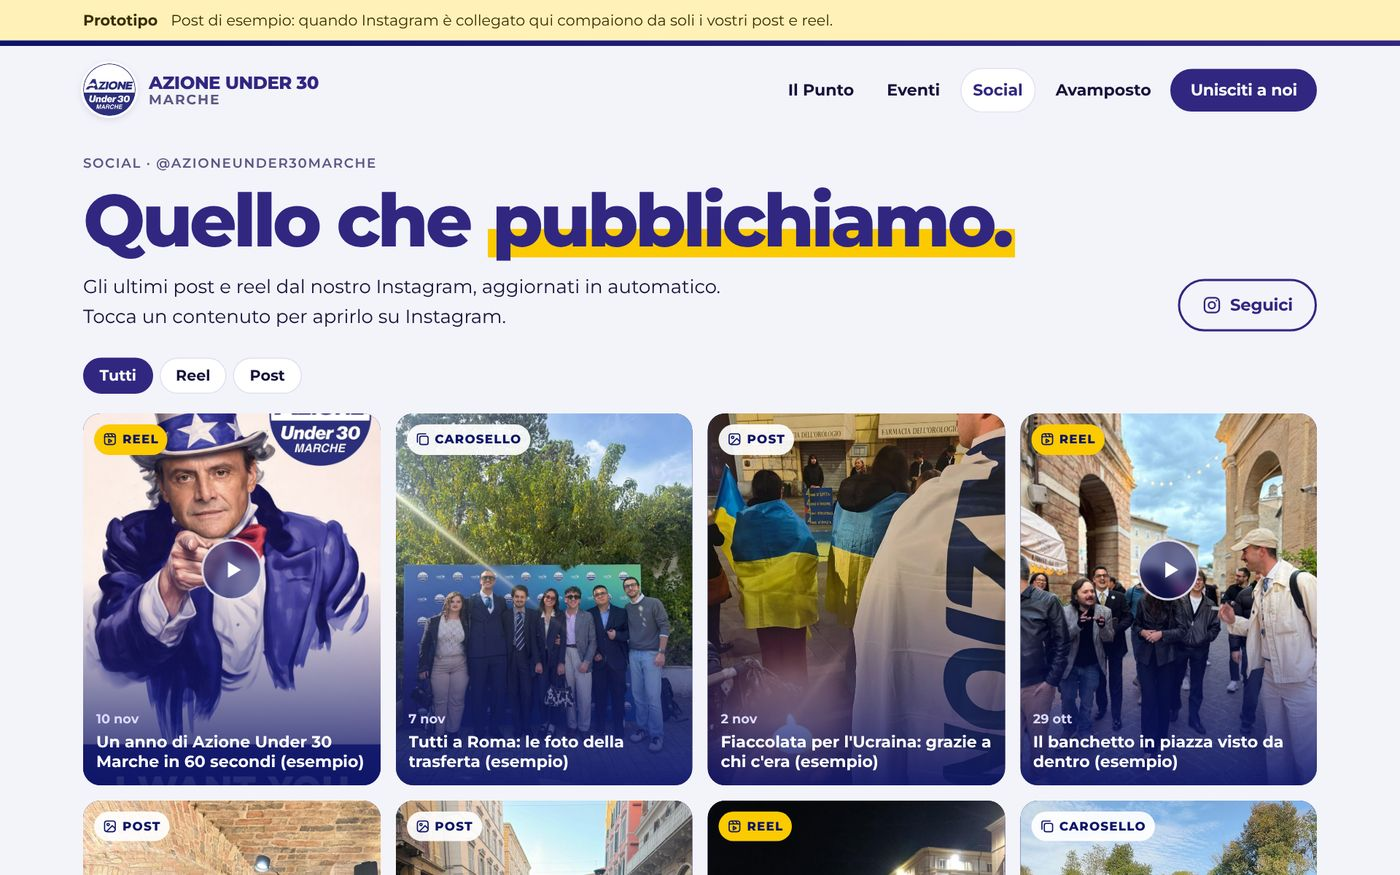
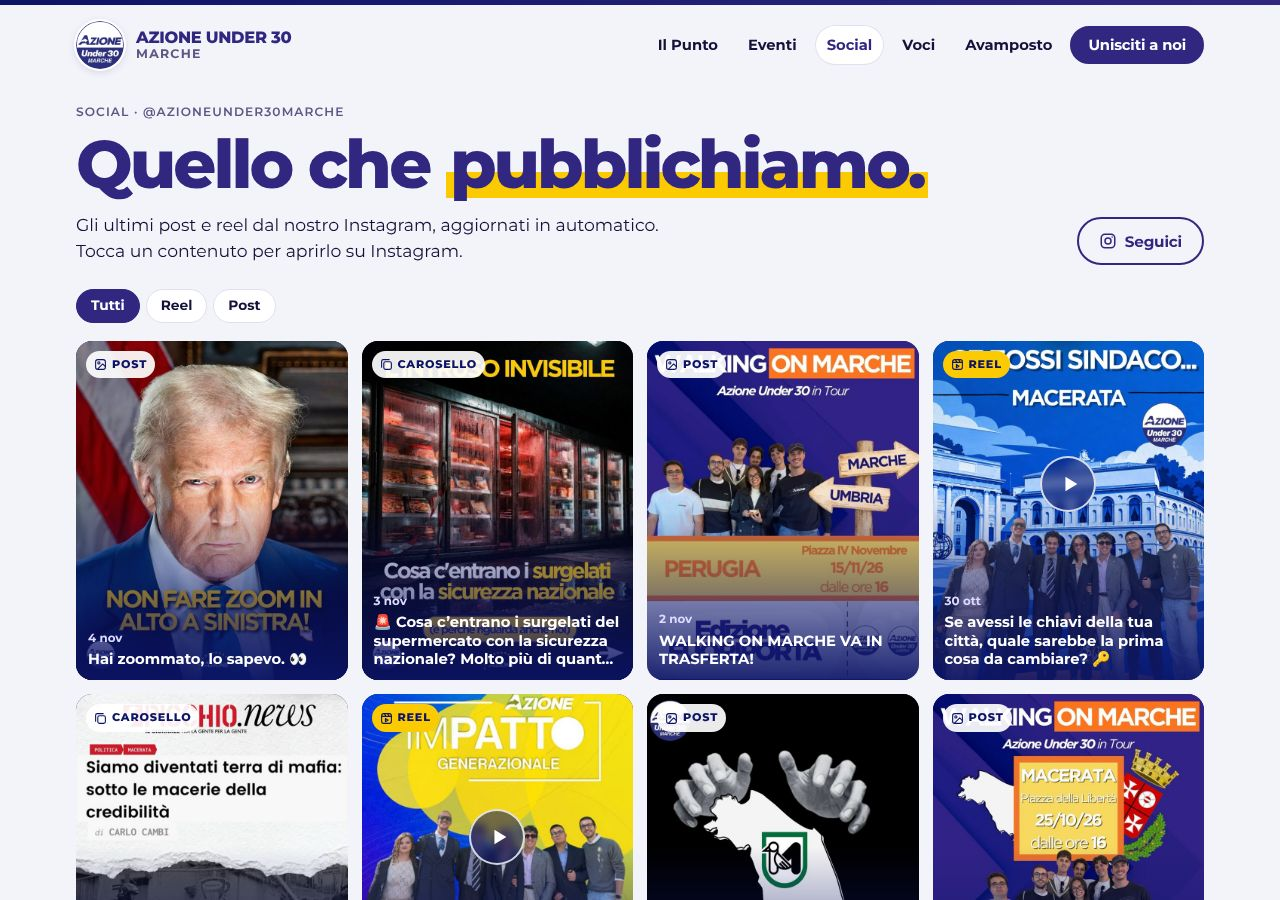
Presentazione aggiornata: stato dei lavori, Instagram collegato, area riservata attiva
Claude-Session: https://claude.ai/code/session_01NRyspFum324wAsFqW1YsHa

diff --git a/presentazione/index.html b/presentazione/index.html
@@ -120,6 +120,12 @@ footer a { color: var(--muted); }
 .tryit-actions { display: grid; gap: 10px; justify-items: start; }
 .tryit-actions small { color: var(--muted); }
 @media (max-width: 820px) { .tryit { grid-template-columns: 1fr; padding: 22px 18px; } }
+
+.steps li.done::before { content: "✓"; background: #312781; }
+.steps li.done b::after { content: " · fatto"; font-weight: 700; font-size: .78rem; letter-spacing: .06em; text-transform: uppercase; color: var(--muted); }
+.steps li.doing { border: 2px solid var(--yellow); }
+.steps li.doing::before { background: var(--yellow); color: #0C1467; }
+.steps li.doing b::after { content: " · in corso"; font-weight: 700; font-size: .78rem; letter-spacing: .06em; text-transform: uppercase; color: var(--muted); }
 </style>
 </head>
 <body>
@@ -167,12 +173,12 @@ footer a { color: var(--muted); }
     </section>
 
     <nav class="toc" aria-label="Indice">
-      <a href="#home">Home</a><a href="#voci">Voci Under 30</a><a href="#punto">Il Punto</a><a href="#eventi">Eventi</a><a href="#social">Social</a><a href="#avamposto">Avamposto</a><a href="#gestione">Gestione</a><a href="#privacy">Privacy</a><a href="#prossimi">Prossimi passi</a>
+      <a href="#home">Home</a><a href="#voci">Voci Under 30</a><a href="#punto">Il Punto</a><a href="#eventi">Eventi</a><a href="#social">Social</a><a href="#avamposto">Avamposto</a><a href="#gestione">Gestione</a><a href="#privacy">Privacy</a><a href="#prossimi">A che punto siamo</a>
     </nav>
 
     <section class="part" id="home">
       <div>
-        <span class="status on">Online</span>
+        <span class="status prev">Pronta · si apre al lancio</span>
         <h2>La porta d'ingresso</h2>
         <p>Chi arriva capisce subito chi siamo e dove andare: leggere la rassegna, entrare nell'Avamposto, venire a un evento.</p>
         <ul>
@@ -188,7 +194,7 @@ footer a { color: var(--muted); }
 
     <section class="part" id="voci">
       <div>
-        <span class="status prev">Pronta · in anteprima</span>
+        <span class="status on">Attiva · in prova</span>
         <h2>Voci Under 30</h2>
         <p>Lo spazio dove i ragazzi dicono la loro: riflessioni, commenti alle notizie, note dopo un banchetto. Si scrive dall'area riservata, lo staff approva, poi il testo compare sul sito.</p>
         <ul>
@@ -221,7 +227,7 @@ footer a { color: var(--muted); }
 
     <section class="part" id="eventi">
       <div>
-        <span class="status prev">Pronta · in anteprima</span>
+        <span class="status on">Attiva · si apre al lancio</span>
         <h2>Eventi</h2>
         <p>Tutti gli appuntamenti nelle Marche con le locandine: aperitivi, incontri, banchetti, dirette, formazione.</p>
         <ul>
@@ -237,23 +243,23 @@ footer a { color: var(--muted); }
 
     <section class="part" id="social">
       <div>
-        <span class="status prev">Pronta · da collegare a Instagram</span>
+        <span class="status on">Collegata a Instagram</span>
         <h2>Social</h2>
-        <p>Ogni reel e ogni post che pubblichiamo su Instagram compare da solo sul sito, nella pagina Social e in anteprima in home. Nessun lavoro in più per chi gestisce i social.</p>
+        <p>Ogni reel e ogni post che pubblichiamo su Instagram compare da solo sul sito, nella pagina Social e in anteprima in home. Il collegamento è già attivo: sul sito ci sono i nostri ultimi contenuti. Nessun lavoro in più per chi gestisce i social.</p>
         <ul>
           <li><span>Aggiornamento automatico ogni due ore</span></li>
           <li><span>Filtri per Reel e Post; tocchi e si apre su Instagram</span></li>
           <li><span>Le immagini sono copiate sul sito: chi guarda non viene tracciato da Instagram</span></li>
         </ul>
-        <div class="actions"><a class="btn solid" href="../social/?demo=1">Vedi l'anteprima</a></div>
+        <div class="actions"><a class="btn solid" href="../social/?demo=1">Vedi i nostri post sul sito</a></div>
       </div>
-      <div class="shots"><a class="shot" href="img/social.jpg"><img src="img/social.jpg" alt="La pagina Social" loading="lazy" width="1400" height="875"></a>
+      <div class="shots"><a class="shot" href="img/social.jpg"><img src="img/social.jpg" alt="La pagina Social con i nostri post" loading="lazy" width="1280" height="900"></a>
         <a class="phone" href="img/social-m.jpg"><img src="img/social-m.jpg" alt="La pagina Social su telefono" loading="lazy" width="560" height="1120"></a></div>
     </section>
 
     <section class="part" id="avamposto">
       <div>
-        <span class="status prev">Pronta · in anteprima</span>
+        <span class="status on">Attiva · in prova con un gruppo ristretto</span>
         <h2>Avamposto, l'area riservata</h2>
         <p>Qui si impara a fare politica. Iscrizione gratuita con la mail, senza password: ricevi un link e sei dentro.</p>
         <ul>
@@ -271,7 +277,7 @@ footer a { color: var(--muted); }
 
     <section class="part" id="gestione">
       <div>
-        <span class="status prev">Pronta · per lo staff</span>
+        <span class="status on">Attiva · per lo staff</span>
         <h2>Gestione, senza toccare codice</h2>
         <p>Lo staff regionale gestisce tutto da un pannello, con un'unica mail condivisa.</p>
         <ul>
@@ -279,6 +285,7 @@ footer a { color: var(--muted); }
           <li><span>Pubblica eventi con locandina, turni e kit per i volontari; vede chi ha aderito e copia l'elenco per WhatsApp</span></li>
           <li><span>Aggiorna la squadra, le foto e i link dei canali</span></li>
           <li><span>Elenco iscritti esportabile</span></li>
+          <li><span>Pre-lancio: decide chi può entrare finché il sito non è aperto a tutti, e lo apre con un clic</span></li>
         </ul>
         <div class="actions"><a class="btn solid" href="../avamposto/?demo=1">Entra come staff (anteprima)</a></div>
       </div>
@@ -294,10 +301,10 @@ footer a { color: var(--muted); }
       <div class="cards">
         <div class="card"><b>Titolare: Azione</b><p>Informativa allineata a quelle del partito (sostenitori, formazione, eventi, volontari, newsletter), con il DPO di Azione indicato.</p></div>
         <div class="card"><b>Dati in Europa</b><p>Iscritti, corsi, adesioni ed eventi sono su server a Francoforte. Nessun cookie di profilazione, nessuna statistica, nessuna pubblicità.</p></div>
-        <div class="card"><b>Protezione sul server</b><p>Le regole del database impediscono di vedere materiali non autorizzati, approvarsi da soli o diventare amministratori.</p></div>
+        <div class="card"><b>Protezione sul server</b><p>Le regole del database impediscono di vedere materiali non autorizzati, approvarsi da soli o diventare amministratori. Verifica in due passaggi sugli account dello staff.</p></div>
         <div class="card"><b>I dati restano delle persone</b><p>Ognuno scarica o cancella i propri dati da solo. Account inattivi cancellati dopo 24 mesi, adesioni ai turni dopo 12.</p></div>
         <div class="card"><b>Nomi riservati</b><p>L'organigramma con i nomi e i canali WhatsApp è visibile solo agli iscritti, non sul sito pubblico.</p></div>
-        <div class="card"><b>Costi</b><p>Hosting, database e invio mail su piani gratuiti. Nessun costo fisso.</p></div>
+        <div class="card"><b>Costi</b><p>Sito, database e mail di accesso su piani gratuiti o con gli strumenti che abbiamo già. Nessun costo fisso.</p></div>
       </div>
       <div class="actions" style="margin-top:24px"><a class="btn white" href="../avamposto/privacy.html">Leggi l'informativa</a></div>
     </div>
@@ -305,20 +312,24 @@ footer a { color: var(--muted); }
 
   <section class="next" id="prossimi">
     <div class="wrap">
-      <span class="eyebrow">Prossimi passi</span>
-      <h2>Cosa manca per partire</h2>
+      <span class="eyebrow">Stato dei lavori · aggiornato all'11 novembre 2026</span>
+      <h2>A che punto siamo</h2>
       <ol class="steps">
-        <li><div><b>Accendere l'area riservata</b><span>Collegamento del database (Supabase, server in Europa): attiva iscrizioni, corsi, eventi, squadra e mobilitazione.</span></div></li>
-        <li><div><b>Mail di accesso</b><span>Servizio di invio gratuito per i link d'accesso e, più avanti, per la newsletter.</span></div></li>
-        <li><div><b>Collegare Instagram</b><span>Da quel momento post e reel arrivano sul sito da soli.</span></div></li>
-        <li><div><b>Prova con un gruppo di ragazzi</b><span>Iscrizione, richiesta di un corso, adesione a un turno, poi apertura a tutti.</span></div></li>
+        <li class="done"><div><b>Il Punto online</b><span>La rassegna esce ogni mattina alle 8, anche in audio, e circola già tra i ragazzi.</span></div></li>
+        <li class="done"><div><b>Area riservata accesa</b><span>Database collegato su server a Francoforte, con le regole di sicurezza e l'organigramma riservato.</span></div></li>
+        <li class="done"><div><b>Mail di accesso</b><span>Il link per entrare parte dalla casella del gruppo, con testi in italiano.</span></div></li>
+        <li class="done"><div><b>Instagram collegato</b><span>Post e reel arrivano sul sito da soli ogni due ore.</span></div></li>
+        <li class="done"><div><b>Sicurezza e privacy</b><span>Informativa allineata ad Azione, verifica in due passaggi, pre-lancio attivo: per ora entra solo chi autorizziamo.</span></div></li>
+        <li class="doing"><div><b>Prova con un gruppo ristretto</b><span>Quattro ragazzi provano iscrizione, corsi, adesione ai turni e Voci Under 30.</span></div></li>
+        <li><div><b>Contenuti per il lancio</b><span>Primi eventi con le locandine, il primo corso, le prime Voci e le foto della squadra.</span></div></li>
+        <li><div><b>Lancio</b><span>Reel di annuncio, messaggi nei gruppi e apertura dell'Avamposto a tutti.</span></div></li>
       </ol>
       <div class="try">
         <h3>Come provarlo adesso</h3>
         <ul>
           <li>Le parti in anteprima usano dati di esempio (nomi ed eventi finti): si possono toccare senza rompere nulla, le modifiche restano solo sul proprio dispositivo.</li>
           <li>Nell'Avamposto, la barra gialla in alto permette di entrare <b>come iscritto</b> o <b>come staff</b>.</li>
-          <li>Link: <a href="../">Home</a> · <a href="../rassegna/">Il Punto</a> · <a href="../eventi/?demo=1">Eventi</a> · <a href="../social/?demo=1">Social</a> · <a href="../voci/?demo=1">Voci</a> · <a href="../avamposto/?demo=1">Avamposto</a></li>
+          <li>Link: <a href="../?demo=1">Home</a> · <a href="../rassegna/">Il Punto</a> · <a href="../eventi/?demo=1">Eventi</a> · <a href="../social/?demo=1">Social</a> · <a href="../voci/?demo=1">Voci</a> · <a href="../avamposto/?demo=1">Avamposto</a></li>
         </ul>
       </div>
     </div>
